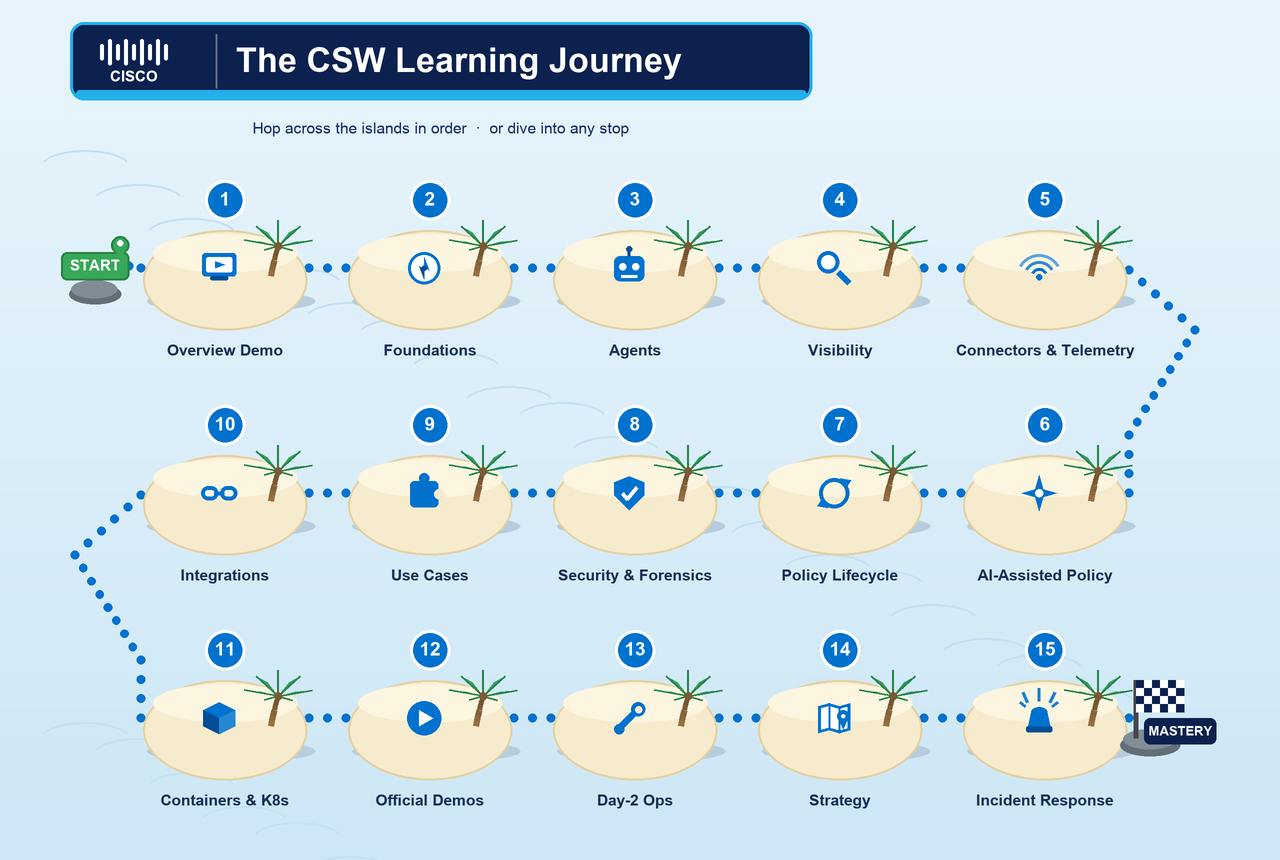
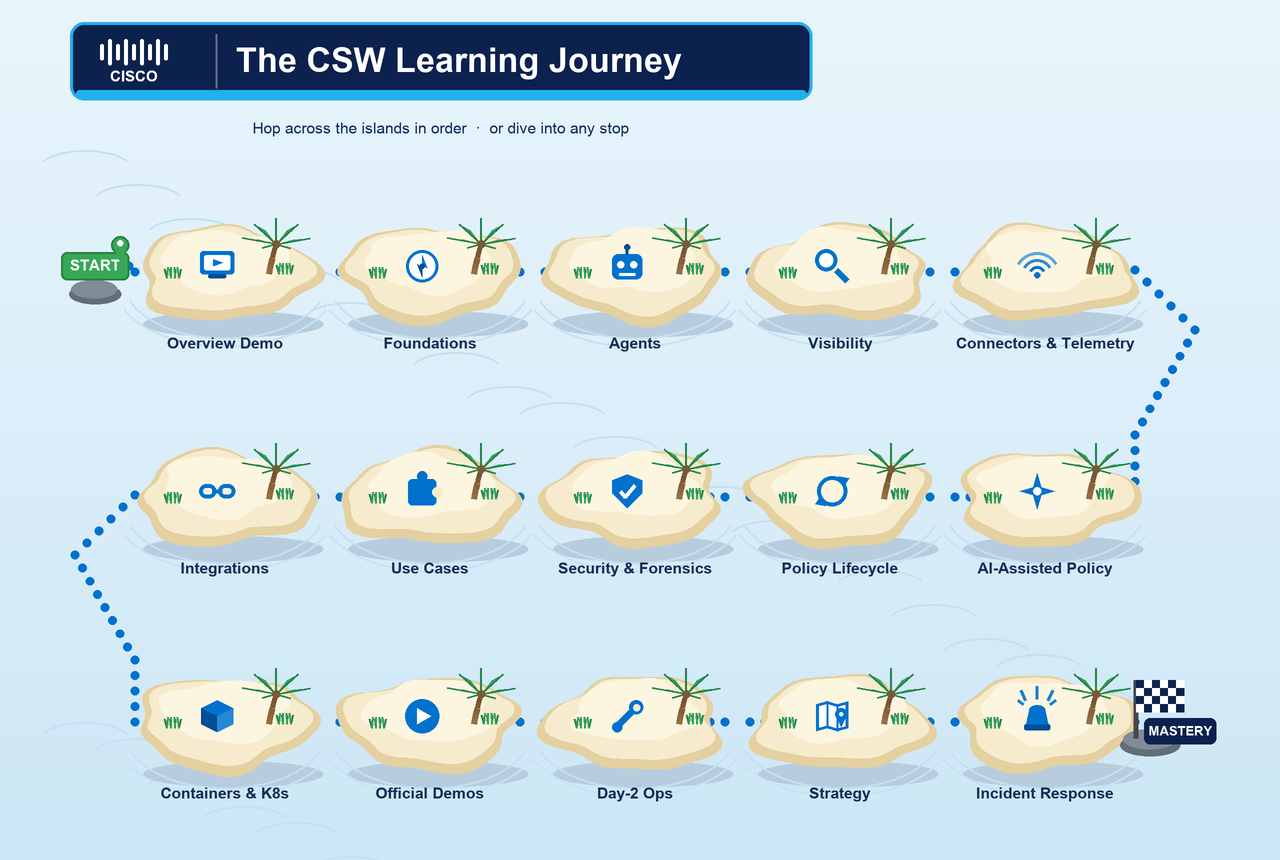
Refine learning-journey islands: remove numbers, organic island shapes
Drop the numbered badges (order is carried by the dotted trail) and
replace flat ellipse islands with organic multi-harmonic coastlines,
layered wet/dry/sunlit sand tones, grass tufts, and water ripples for a
more realistic look.

diff --git a/assets/make_learning_journey.py b/assets/make_learning_journey.py
@@ -204,24 +204,45 @@ def palm(c, x, y, flip=False):
     c.ellipse([tx - 4, ty - 4, tx + 4, ty + 4], fill=(120, 90, 55))
 
 
-def island(c, cx, cy, num, kind, label, has_palm=True):
-    rx, ry = 82, 50
-    # water shadow
-    c.ellipse([cx - rx + 4, cy + 20, cx + rx + 8, cy + 42], fill=SAND_SH)
-    # sand body
-    c.ellipse([cx - rx, cy - ry + 10, cx + rx, cy + ry + 10], fill=SAND, outline=SAND_EDGE, width=2)
-    # sand top highlight
-    c.ellipse([cx - rx + 10, cy - ry + 14, cx + rx - 10, cy + 2], fill=SAND_HI)
+def blob(cx, cy, rx, ry, seed, n=54):
+    """Organic island outline: an ellipse with gentle multi-harmonic wobble."""
+    pts = []
+    for i in range(n):
+        a = 2 * math.pi * i / n
+        k = (0.085 * math.sin(3 * a + seed)
+             + 0.05 * math.sin(5 * a + seed * 1.7)
+             + 0.03 * math.sin(8 * a + seed * 0.6))
+        pts.append((cx + math.cos(a) * rx * (1 + k),
+                    cy + math.sin(a) * ry * (1 + k)))
+    return pts
+
+
+def grass_tuft(c, x, y):
+    for dx in (-6, -2, 2, 6):
+        c.line([(x + dx, y), (x + dx * 1.4, y - 9)], fill=LEAF_DK, width=2)
+        c.line([(x + dx, y), (x + dx * 0.8, y - 11)], fill=LEAF, width=2)
+
+
+def island(c, cx, cy, kind, label, seed, has_palm=True):
+    rx, ry = 88, 47
+    # soft water shadow beneath the island
+    c.ellipse([cx - rx + 6, cy + ry - 6, cx + rx + 10, cy + ry + 20], fill=SAND_SH)
+    # surrounding water ripples
+    c.arc([cx - rx - 14, cy - ry, cx + rx + 14, cy + ry + 22], 20, 160, fill=WAVE, width=2)
+    c.arc([cx - rx - 24, cy - ry - 4, cx + rx + 24, cy + ry + 30], 25, 155, fill=blend(WAVE, SKY_BOT, 0.4), width=2)
+    # wet-sand shoreline (darker, full size)
+    c.polygon(blob(cx, cy + 4, rx, ry, seed), fill=SAND_EDGE)
+    # dry sand body
+    c.polygon(blob(cx, cy, rx - 7, ry - 6, seed), fill=SAND)
+    # sunlit sand highlight (upper portion)
+    c.polygon(blob(cx, cy - 9, rx - 26, ry - 16, seed + 1.3), fill=SAND_HI)
     if has_palm:
-        palm(c, cx + 46, cy + 6, flip=False)
-    icon(c, kind, cx - 6, cy - 2)
-    # number badge (floats above island)
-    bx, by = cx, cy - ry - 20
-    c.ellipse([bx - 20, by - 20, bx + 20, by + 20], fill=WHITE)
-    c.ellipse([bx - 17, by - 17, bx + 17, by + 17], fill=BLUE)
-    c.text((bx, by - 1), str(num), bold(19), WHITE)
+        grass_tuft(c, cx + 60, cy + 4)
+        palm(c, cx + 44, cy + 4, flip=False)
+    grass_tuft(c, cx - 52, cy + 8)
+    icon(c, kind, cx - 8, cy - 4)
     # label
-    c.text((cx, cy + ry + 30), label, bold(15.5), LABEL)
+    c.text((cx, cy + ry + 26), label, bold(15.5), LABEL)
 
 
 def dotted_path(c, pts, color=BLUE, r=4.2, gap=15):
@@ -335,10 +356,10 @@ def build(path):
 
     # ---- dotted trail (behind islands) ----
     def edge_r(n):   # right edge point of island n
-        x, y = pos[n]; return (x + 84, y - 2)
+        x, y = pos[n]; return (x + 90, y + 2)
 
     def edge_l(n):
-        x, y = pos[n]; return (x - 84, y - 2)
+        x, y = pos[n]; return (x - 90, y + 2)
 
     trail = [(start_xy[0] + 34, start_xy[1] - 4)]
     trail.append(edge_l(1))
@@ -347,13 +368,13 @@ def build(path):
         trail.append(edge_r(n)); trail.append(edge_l(n + 1))
     # curve 5 -> 6 down the right side
     x5, y5 = pos[5]; x6, y6 = pos[6]
-    trail += [(x5 + 84, y5), (x5 + 150, y5 + 60), (x6 + 84, y6 - 60), edge_r(6)]
+    trail += [(x5 + 90, y5), (x5 + 150, y5 + 60), (x6 + 90, y6 - 60), edge_r(6)]
     # row 2 across (right->left)
     for n in range(6, 10):
         trail.append(edge_l(n)); trail.append(edge_r(n + 1))
     # curve 10 -> 11 down the left side
     x10, y10 = pos[10]; x11, y11 = pos[11]
-    trail += [(x10 - 84, y10), (x10 - 150, y10 + 60), (x11 - 84, y11 - 60), edge_l(11)]
+    trail += [(x10 - 90, y10), (x10 - 150, y10 + 60), (x11 - 90, y11 - 60), edge_l(11)]
     # row 3 across
     for n in range(11, 15):
         trail.append(edge_r(n)); trail.append(edge_l(n + 1))
@@ -365,7 +386,7 @@ def build(path):
     start_marker(c, *start_xy)
     for num, kind, label in ISLANDS:
         x, y = pos[num]
-        island(c, x, y, num, kind, label)
+        island(c, x, y, kind, label, seed=num * 1.37)
     mastery_marker(c, *mastery_xy)
 
     # ---- header banner ----